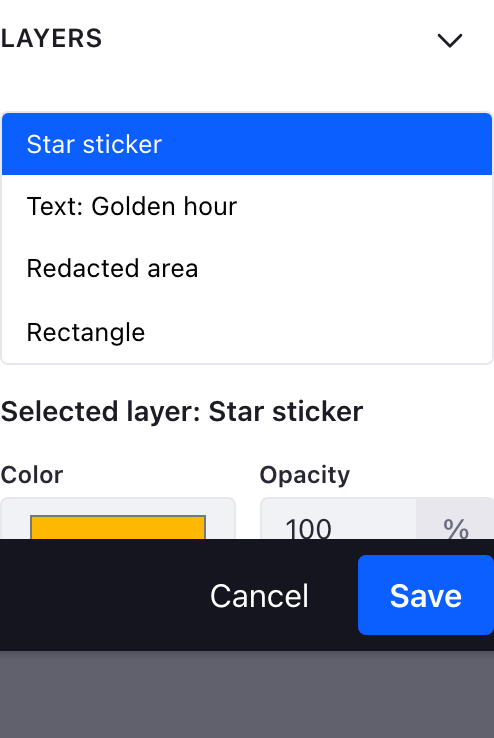
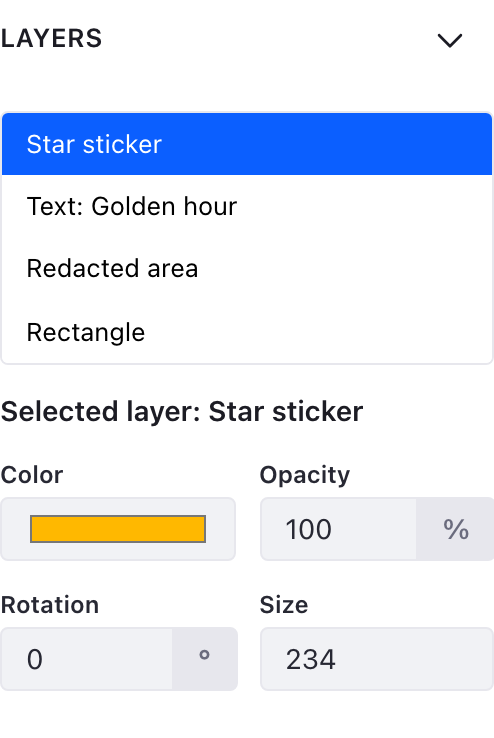
Size the presentation screenshots properly and pitch the integration

Changed region(s): [[0.0, 0.7168, 1.0, 1.0]]

diff --git a/presentation/index.html b/presentation/index.html
@@ -33,6 +33,7 @@
 					<a href="#accessibility">Accessibility</a>
 					<a href="#small-screens">Small screens</a>
 					<a href="#configure">Configure</a>
+					<a href="#integrate">Integrate</a>
 				</nav>
 
 				<a class="btn btn-primary btn-sm" href="../">Open the editor</a>
@@ -96,8 +97,9 @@
 							</div>
 							<img
 								src="screenshots/editor.jpg"
-								width="2380"
-								height="1620"
+									width="2380"
+									height="1620"
+									style="max-width: 1190px"
 								alt="The editor open on a photograph of a domed building. The crop marquee covers the image, and the sidebar shows the Crop and rotation, Adjustments and Filters sections."
 							/>
 						</div>
@@ -310,17 +312,49 @@
 							</ul>
 						</div>
 						<figure class="figure reveal">
-							<img
-								class="window shot-sm"
-								src="screenshots/crop.png"
-								width="964"
-								height="798"
-								alt="The Crop and rotation panel: X position, Y position, width and height fields with a proportion lock between them, and a Straighten slider reading zero degrees."
-							/>
+							<div class="shot-frame">
+								<img
+									class="window"
+									src="screenshots/crop.png"
+									width="494"
+									height="516"
+									style="max-width: 247px"
+									alt="The Crop and rotation panel: X position, Y position, width and height fields with a proportion lock between them, and a Straighten slider reading zero degrees."
+								/>
+							</div>
 						</figure>
 					</div>
 
 					<div class="showcase showcase-reverse">
+						<div class="showcase-text">
+							<h3>Tone you can dial in</h3>
+							<p>
+								Five sliders, each a real range input, each with its own
+								reset, and a Reset all at the end of the list rather than
+								the top. Shadows and highlights are separate tone curves,
+								not a single brightness knob.
+							</p>
+							<p>
+								The painted handle is small enough for a dense panel while
+								the interactive band stays 24 pixels tall, so nothing is
+								harder to hit than it looks.
+							</p>
+						</div>
+						<figure class="figure reveal">
+							<div class="shot-frame">
+								<img
+									class="window"
+									src="screenshots/adjust.png"
+									width="494"
+									height="706"
+									style="max-width: 247px"
+									alt="The Adjustments panel: brightness, contrast, saturation, shadows and highlights sliders, each reading zero with a reset button, and a Reset all button at the bottom."
+								/>
+							</div>
+						</figure>
+					</div>
+
+					<div class="showcase">
 						<div class="showcase-text">
 							<h3>Twenty looks, one recipe table</h3>
 							<p>
@@ -338,15 +372,17 @@
 							<div class="compare" id="compare" data-playing="true">
 								<img
 									src="screenshots/stage.jpg"
-									width="1836"
-									height="1362"
+									width="1816"
+									height="1376"
+									style="max-width: 908px"
 									alt="The photograph with no filter applied."
 								/>
 								<img
 									class="compare-top"
 									src="screenshots/stage-filtered.jpg"
-									width="1836"
-									height="1362"
+									width="1816"
+									height="1376"
+									style="max-width: 908px"
 									alt="The same photograph with the Vintage filter applied: warmer, lower in contrast."
 								/>
 								<div class="compare-controls">
@@ -368,6 +404,31 @@
 								animation can be paused, and it does not start at all when
 								the operating system asks for reduced motion.
 							</figcaption>
+						</figure>
+					</div>
+
+					<div class="showcase showcase-reverse">
+						<div class="showcase-text">
+							<h3>A gallery, not a dropdown</h3>
+							<p>
+								Each card is a real radio, visually hidden but fully
+								present: the group keeps its semantics and its arrow-key
+								behaviour, and the thumbnails are painted from a small
+								bitmap prepared once at load time rather than by filtering
+								the full photograph twenty times.
+							</p>
+						</div>
+						<figure class="figure reveal">
+							<div class="shot-frame">
+								<img
+									class="window"
+									src="screenshots/filters.png"
+									width="494"
+									height="840"
+									style="max-width: 247px"
+									alt="The Filters panel: filter cards in two columns, each a thumbnail of the photograph with the preset applied and its name below. Vintage is selected, with a ring, a bold label and a check badge."
+								/>
+							</div>
 						</figure>
 					</div>
 
@@ -393,14 +454,41 @@
 							<img
 								class="window"
 								src="screenshots/annotate.jpg"
-								width="1836"
-								height="1362"
+									width="1816"
+									height="1376"
+									style="max-width: 908px"
 								alt="The stage with four annotations: a blue rectangle, a star sticker selected with resize and rotate handles, a pixelated redaction over the clock, and the words Golden hour in white."
 							/>
+							<figcaption>
+								Four annotations on one stage, each a node of its own.
+							</figcaption>
 						</figure>
 					</div>
 
 					<div class="showcase showcase-reverse">
+						<div class="showcase-text">
+							<h3>Redactions that survive the filter</h3>
+							<p>
+								A redaction is a real mosaic, built from small copies of
+								the image prepared at load time and revealed through a
+								clip, in four block sizes. It runs through the same colour
+								pipeline as the photograph, so it does not sit on top of
+								the picture looking like a different image.
+							</p>
+						</div>
+						<figure class="figure reveal">
+							<img
+								class="window"
+								src="screenshots/redaction.jpg"
+									width="778"
+									height="550"
+									style="max-width: 389px"
+								alt="Close-up of a pixelated redaction over a black and white photograph: the mosaic blocks are grey, matching the Noir filter applied to the rest of the image."
+							/>
+						</figure>
+					</div>
+
+					<div class="showcase">
 						<div class="showcase-text">
 							<h3>A layers list that mirrors the stage</h3>
 							<p>
@@ -415,13 +503,16 @@
 							</p>
 						</div>
 						<figure class="figure reveal">
-							<img
-								class="window shot-sm"
-								src="screenshots/layers.png"
-								width="964"
-								height="1096"
-								alt="The Layers panel listing a star sticker, a text layer, a redaction and a rectangle, with move, duplicate and delete buttons on the selected row."
-							/>
+							<div class="shot-frame">
+								<img
+									class="window"
+									src="screenshots/layers.png"
+									width="494"
+									height="738"
+									style="max-width: 247px"
+									alt="The Layers panel listing a star sticker, a text layer, a redaction and a rectangle, with the star sticker selected and its colour, opacity, rotation and size below."
+								/>
+							</div>
 						</figure>
 					</div>
 				</div>
@@ -506,20 +597,22 @@
 						<div class="phone-row">
 							<figure class="figure reveal">
 								<img
-									class="window shot-xs"
+									class="window"
 									src="screenshots/selection.png"
-									width="592"
-									height="592"
+									width="412"
+									height="412"
+									style="max-width: 206px"
 									alt="A star sticker with a single thin selection ring and square resize handles."
 								/>
 								<figcaption>Selected with the pointer</figcaption>
 							</figure>
 							<figure class="figure reveal">
 								<img
-									class="window shot-xs"
+									class="window"
 									src="screenshots/focus.png"
-									width="592"
-									height="592"
+									width="412"
+									height="412"
+									style="max-width: 206px"
 									alt="The same star sticker with a thicker two-tone focus ring, white inside and blue outside."
 								/>
 								<figcaption>Reached with the keyboard</figcaption>
@@ -585,6 +678,20 @@
 						</table>
 					</div>
 
+					<figure class="figure reveal" style="margin-top: 2rem">
+						<img
+							class="window"
+							src="screenshots/shortcuts.png"
+									width="1200"
+									height="916"
+									style="margin: 0 auto; max-width: 600px"
+							alt="The editor's own keyboard shortcuts dialog, listing the arrow keys, Shift and Alt modifiers, zoom keys, undo, redo and Escape."
+						/>
+						<figcaption style="text-align: center">
+							The editor carries the same list itself, one keystroke away.
+						</figcaption>
+					</figure>
+
 					<p class="callout reveal">
 						<strong>Still open:</strong> the automated suite cannot certify a
 						screen reader. Manual passes with VoiceOver, NVDA and JAWS are
@@ -637,8 +744,9 @@
 						<div class="phone reveal">
 							<img
 								src="screenshots/mobile.jpg"
-								width="800"
-								height="1640"
+									width="800"
+									height="1608"
+									style="max-width: 400px"
 								alt="The editor on a phone-sized screen: the image and crop marquee on top, the Crop and rotation panel below, and an action bar where Cancel and Save sit at the right edge."
 							/>
 						</div>
@@ -647,20 +755,22 @@
 					<div class="phone-row" style="margin-top: 3.5rem">
 						<figure class="figure reveal">
 							<img
-								class="window shot-xs"
+								class="window"
 								src="screenshots/mobile-filters.png"
-								width="736"
-								height="620"
+									width="736"
+									height="322"
+									style="max-width: 368px"
 								alt="The Filters panel on a narrow screen: filter cards in a single horizontal row with a paging arrow on each side."
 							/>
 							<figcaption>Filters as a swipeable row</figcaption>
 						</figure>
 						<figure class="figure reveal">
 							<img
-								class="window shot-xs"
+								class="window"
 								src="screenshots/mobile-stickers.png"
-								width="736"
-								height="560"
+									width="736"
+									height="266"
+									style="max-width: 368px"
 								alt="The Annotate panel on a narrow screen: the sticker buttons in a single horizontal row with paging arrows."
 							/>
 							<figcaption>Stickers, the same treatment</figcaption>
@@ -669,7 +779,7 @@
 				</div>
 			</section>
 
-			<section class="section section-alt" id="configure">
+			<section class="section" id="configure">
 				<div class="container">
 					<div class="section-head">
 						<p class="eyebrow">Configuration</p>
@@ -731,7 +841,61 @@
 				</div>
 			</section>
 
-			<section class="section" id="verification">
+			<section class="section" id="integrate">
+				<div class="container">
+					<div class="section-head">
+						<p class="eyebrow">Ready for Liferay</p>
+						<h2>A finished component, not a study</h2>
+						<p>
+							It is built on Clay and Atlas, so it already looks and behaves
+							like the rest of the product. Bringing it into the portal is
+							packaging work, not a rewrite.
+						</p>
+					</div>
+
+					<div class="grid">
+						<article class="card reveal">
+							<span class="card-icon" aria-hidden="true">
+								<svg width="20" height="20" viewBox="0 0 16 16" fill="currentColor"><path d="M2.5 2h11c.28 0 .5.22.5.5v11a.5.5 0 0 1-.5.5h-11a.5.5 0 0 1-.5-.5v-11c0-.28.22-.5.5-.5Zm1 1.5v9h9v-9h-9Zm1.5 1.5h6v1.5H5V5Zm0 3h6v1.5H5V8Zm0 3h4v1.5H5V11Z"/></svg>
+							</span>
+							<h3>Mount it where it is needed</h3>
+							<p>
+								One React component with an <code>image</code> and a
+								<code>config</code> prop. Wrap it in an OSGi module and
+								mount it in Documents and Media, the page editor, or an
+								asset picker.
+							</p>
+						</article>
+
+						<article class="card reveal">
+							<span class="card-icon" aria-hidden="true">
+								<svg width="20" height="20" viewBox="0 0 16 16" fill="currentColor"><path d="M8 1.5a6.5 6.5 0 1 1 0 13 6.5 6.5 0 0 1 0-13Zm0 1.5a5 5 0 0 0-4.9 4h2.2c.1-1.5.5-2.8 1.1-3.7A5 5 0 0 0 8 3Zm1.6.3c.6.9 1 2.2 1.1 3.7h2.2a5 5 0 0 0-3.3-3.7ZM4.6 8.5a5 5 0 0 0 2 3.2c-.4-.9-.7-2-.8-3.2H4.6Zm2.8 0c.1 1.5.5 2.8 1.1 3.7.6-.9 1-2.2 1.1-3.7H7.4Zm3.7 0c-.1 1.2-.4 2.3-.8 3.2a5 5 0 0 0 2-3.2h-1.2Z"/></svg>
+							</span>
+							<h3>Translations plug straight in</h3>
+							<p>
+								Every string in the interface goes through a single
+								translation seam. Point it at
+								<code>Language.properties</code> and the editor speaks
+								whatever the portal speaks.
+							</p>
+						</article>
+
+						<article class="card reveal">
+							<span class="card-icon" aria-hidden="true">
+								<svg width="20" height="20" viewBox="0 0 16 16" fill="currentColor"><path d="M8 1.5 3 3.6v4c0 3 2.1 5.7 5 6.9 2.9-1.2 5-3.9 5-6.9v-4L8 1.5Zm0 1.6 3.5 1.5v2.9c0 2.2-1.4 4.2-3.5 5.2-2.1-1-3.5-3-3.5-5.2V4.6L8 3.1Zm-.8 6.6L5.6 8.1 6.7 7l.5.6 2-2 1.1 1-3.1 3.1Z"/></svg>
+							</span>
+							<h3>No third-party surface</h3>
+							<p>
+								No external editing library, no licence to renew, no
+								roadmap owned by somebody else, and no accessibility gap
+								to remediate later. The dependencies are React and Clay.
+							</p>
+						</article>
+					</div>
+				</div>
+			</section>
+
+			<section class="section section-alt" id="verification">
 				<div class="container">
 					<div class="section-head">
 						<p class="eyebrow">Verification</p>

diff --git a/presentation/styles.css b/presentation/styles.css
@@ -568,14 +568,27 @@ kbd {
  * beside them instead of looking blown up.
  */
 
-.shot-sm {
-	margin: 0 auto;
-	max-width: 30rem;
+/*
+ * Panel captures are narrow strips of UI taken at twice the pixel density,
+ * so they are shown at life size (never upscaled, which is what made their
+ * type look bigger than the prose beside them) on a tinted backdrop that
+ * gives the strip somewhere to sit.
+ */
+
+.shot-frame {
+	align-items: center;
+	background: linear-gradient(180deg, var(--gray-200), var(--white));
+	border: 1px solid var(--gray-300);
+	border-radius: var(--radius-lg);
+	display: flex;
+	justify-content: center;
+	padding: clamp(1rem, 3vw, 2rem);
 }
 
-.shot-xs {
-	margin: 0 auto;
-	max-width: 23rem;
+.shot-pair {
+	display: grid;
+	gap: 1.5rem;
+	grid-template-columns: repeat(auto-fit, minmax(min(100%, 13rem), 1fr));
 }
 
 .figure figcaption {
